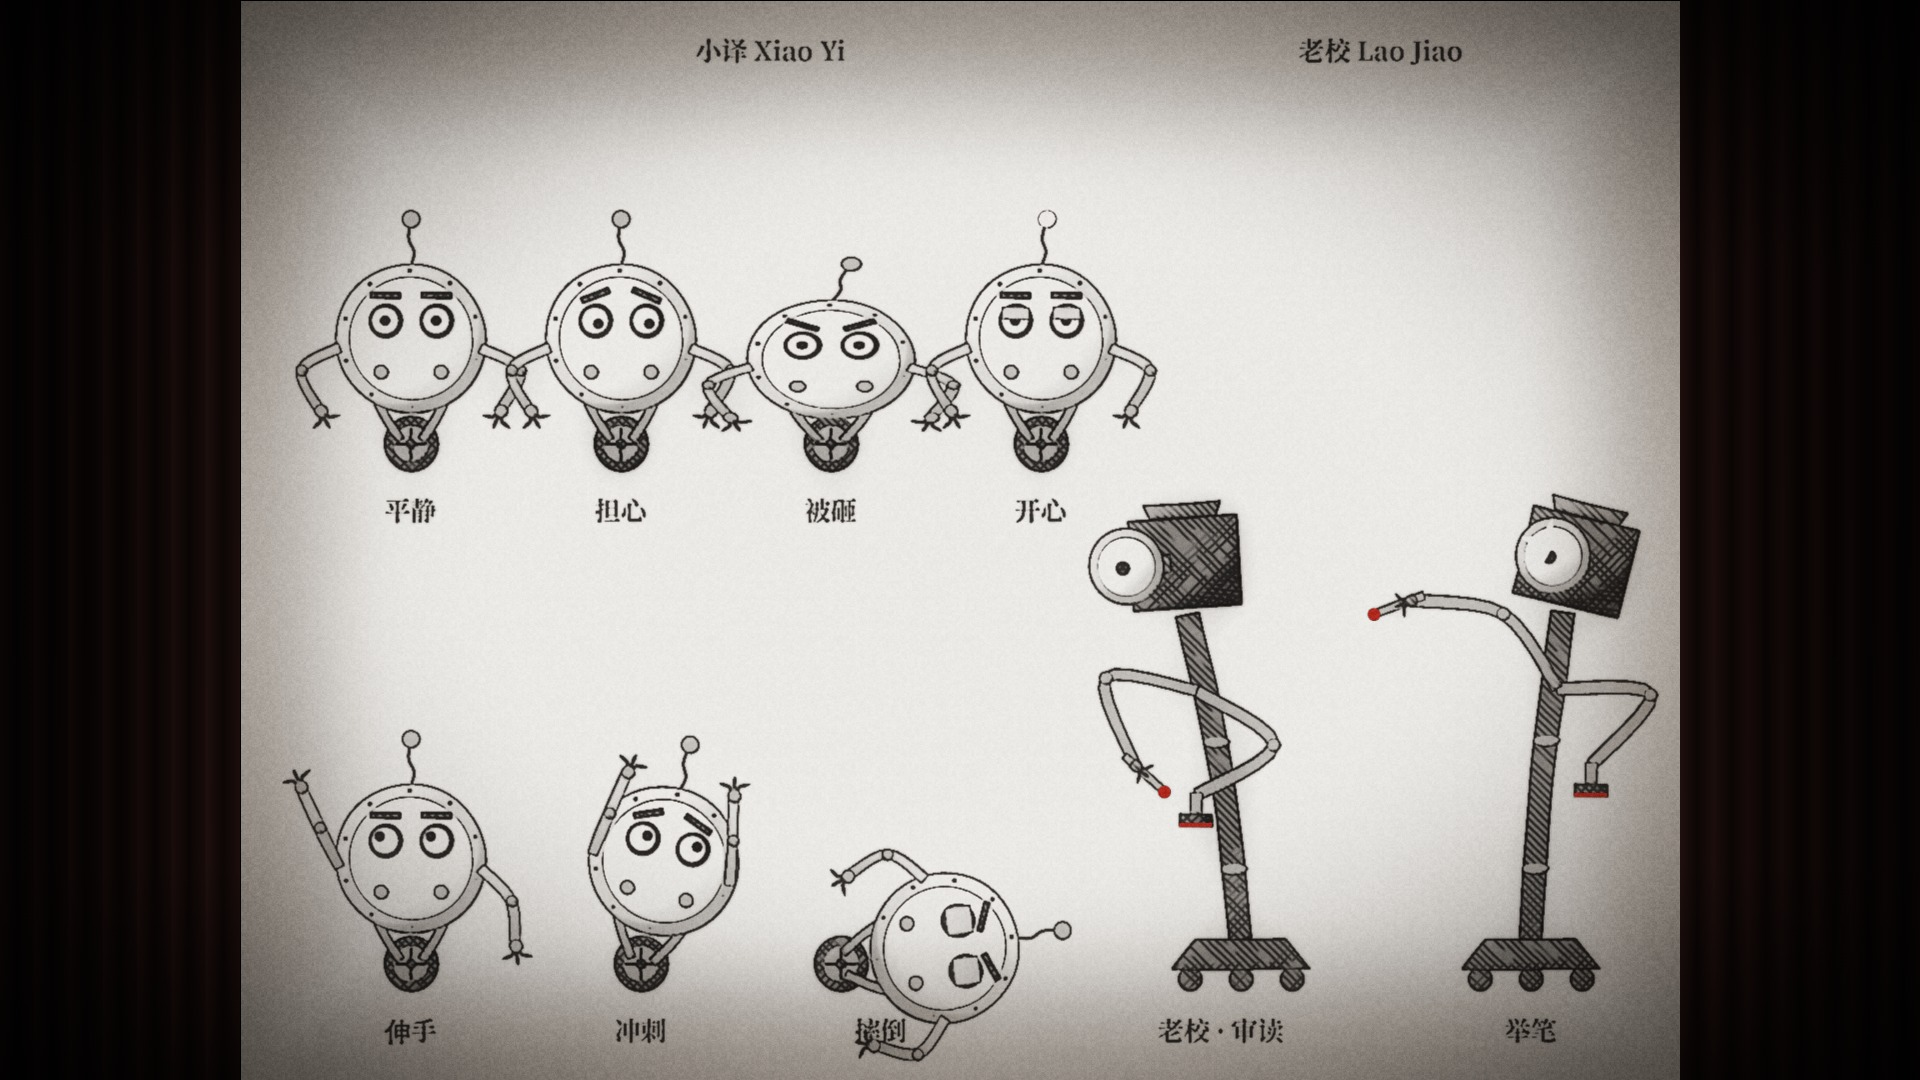
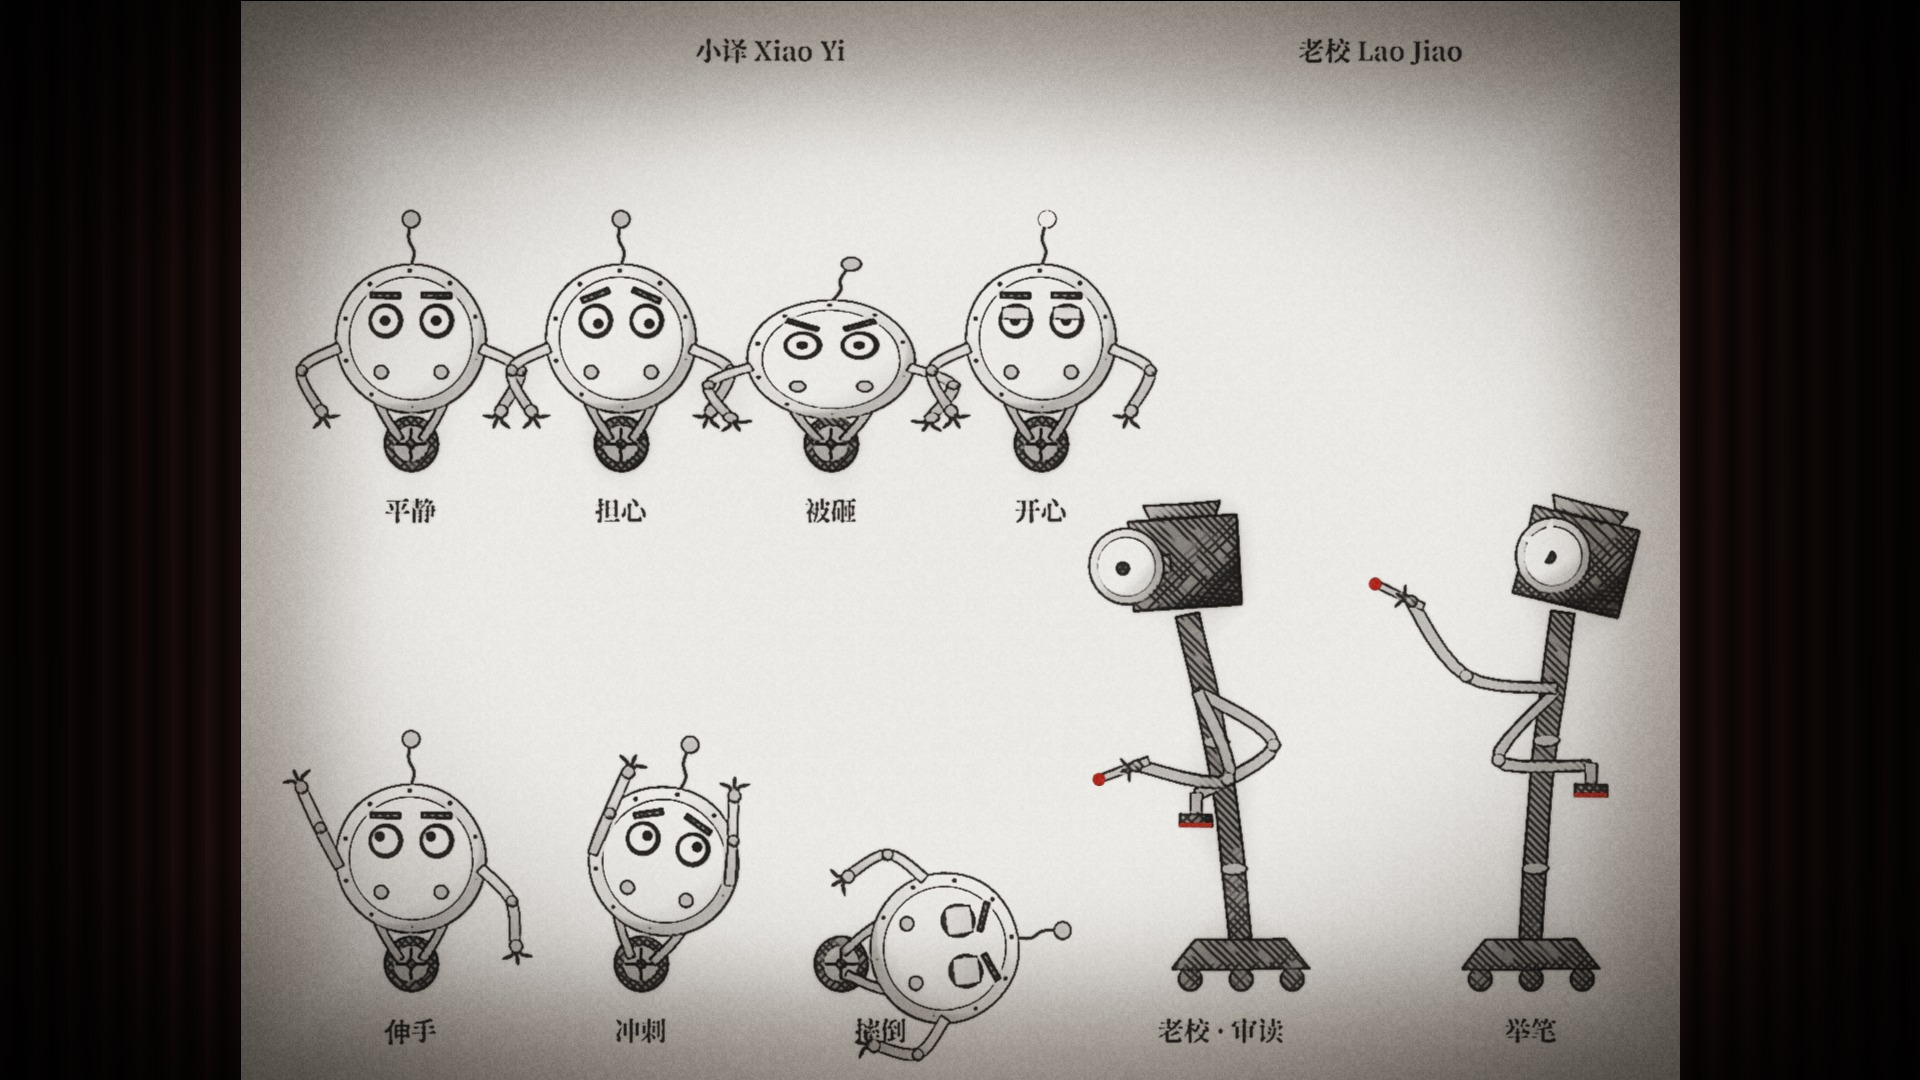
Night Translator: rig fix, timeline export (cue map in TREATMENT §7)
Claude-Session: https://claude.ai/code/session_01SfPLwstLfvugK83G8ya3WQ

Changed region(s): [[0.7188, 0.5194, 0.875, 0.7333], [0.5625, 0.6111, 0.6562, 0.7333]]

diff --git a/films/night-translator/robots.js b/films/night-translator/robots.js
@@ -127,7 +127,7 @@ export function laoJiao(g, st) {
   g.restore();
   // two long arms from the upper stem; hand targets in local coordinates (IK)
   const sh = [neck[0] * .82, neck[1] * .82 + 6];
-  const arm = (tgt, bend, seed) => { const a1 = ik(sh, tgt, 62, 62, 1), a2 = ik(sh, tgt, 62, 62, -1); const [e, h] = a1[0][1] > a2[0][1] ? a1 : a2;   // elbow hangs down tube(g, [sh, e, h], 8, .5, seed); form(g, circ(e[0], e[1], 4.5, 12), { v: .5, line: 1.2 }); return [e, h]; };
+  const arm = (tgt, bend, seed) => { const a1 = ik(sh, tgt, 62, 62, 1), a2 = ik(sh, tgt, 62, 62, -1); const [e, h] = a1[0][1] > a2[0][1] ? a1 : a2; /* elbow hangs down */ tube(g, [sh, e, h], 8, .5, seed); form(g, circ(e[0], e[1], 4.5, 12), { v: .5, line: 1.2 }); return [e, h]; };
   // stamp arm (behind)
   const [se, shd] = arm(st.stamp ?? [d * -26, sh[1] + 100], d > 0 ? 1 : -1, 11);
   form(g, [[shd[0] - 4, shd[1] - 2], [shd[0] + 4, shd[1] - 2], [shd[0] + 4, shd[1] + 12], [shd[0] - 4, shd[1] + 12]], { v: .5, line: 1.4 });
